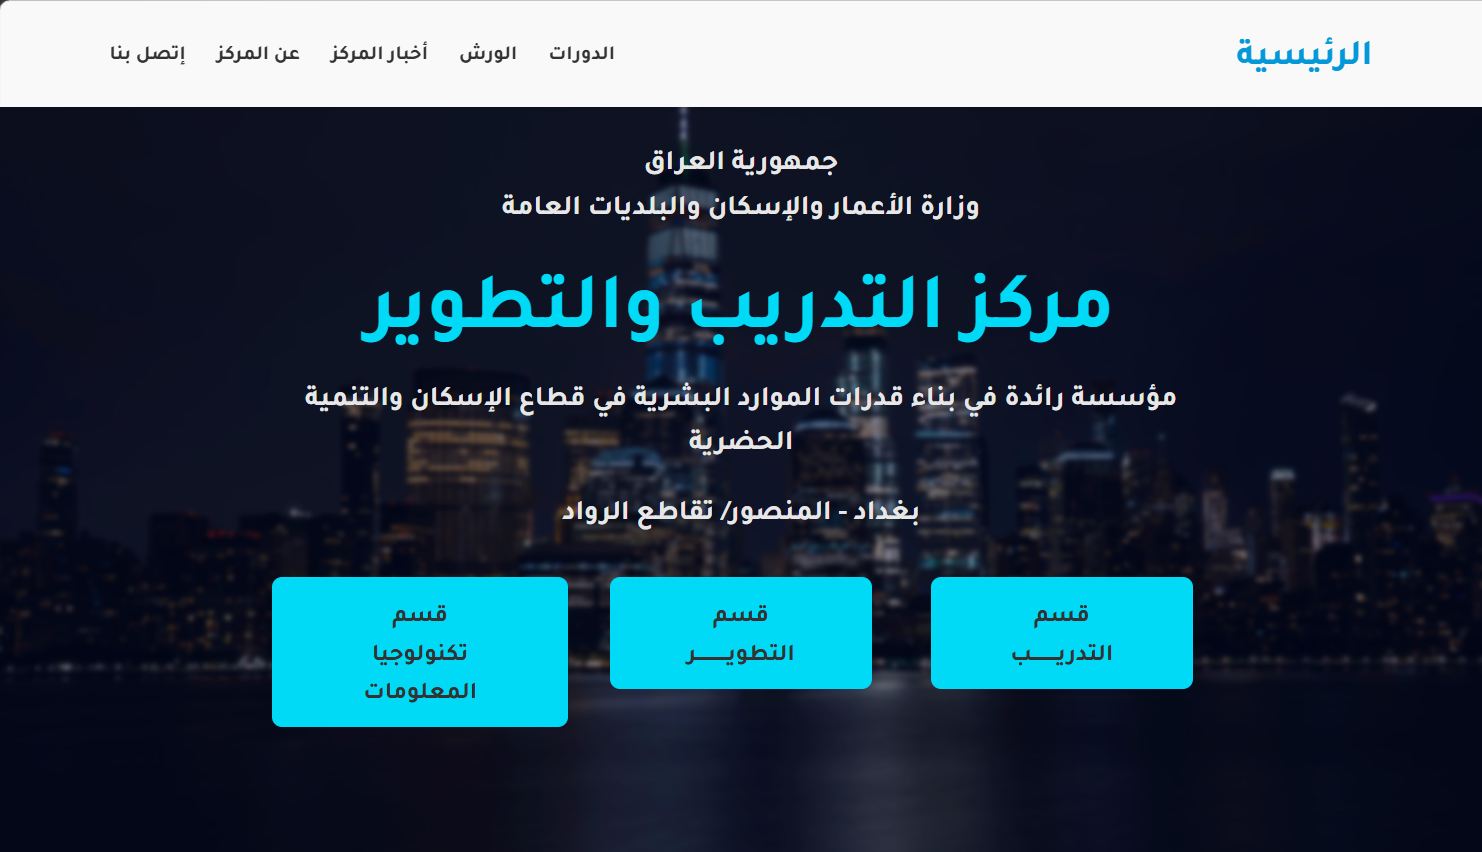
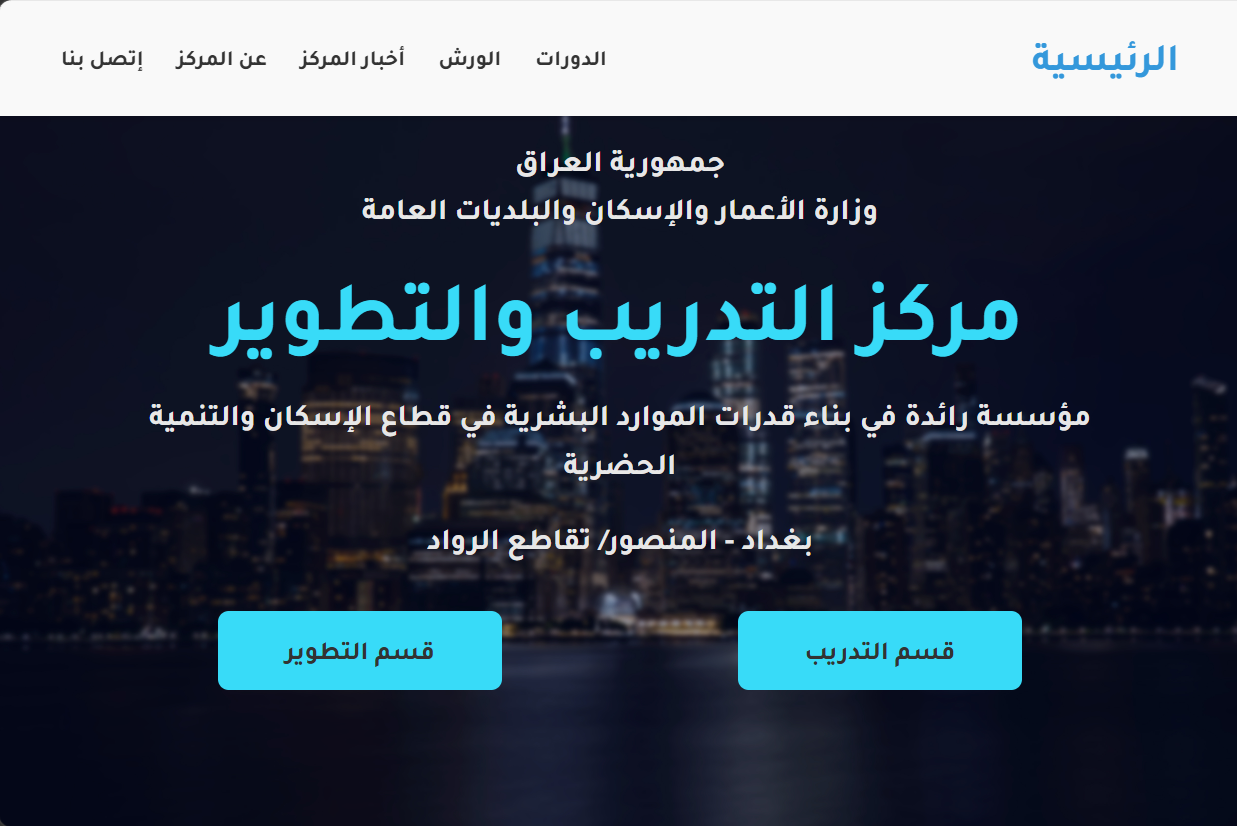
update project

diff --git a/index.html b/index.html
@@ -18,11 +18,11 @@
                     </div>
 
                     <ul class="nav-menu">
-                        <li class="nav-item"><a href="#home">Home</a></li>
-                        <li class="nav-item"><a href="#about">About</a></li>
-                        <li class="nav-item"><a href="#projects">Projects</a></li>
-                        <li class="nav-item"><a href="#skills">Skills</a></li>
-                        <li class="nav-item"><a href="#contact">Contact</a></li>
+                        <li class="nav-item"><a href="#home" class="nav-link">Home</a></li>
+                        <li class="nav-item"><a href="#about" class="nav-link">About</a></li>
+                        <li class="nav-item"><a href="#projects" class="nav-link">Projects</a></li>
+                        <li class="nav-item"><a href="#skills" class="nav-link">Skills</a></li>
+                        <li class="nav-item"><a href="#contact" class="nav-link">Contact</a></li>
                     </ul>
                 </nav>
             </div>
@@ -125,6 +125,94 @@
                     </div>
                 </div>
             </section>
+
+            <section id="skills">
+                <div class="container">
+                    <h2 class="section-title">My Skills</h2>
+
+                    <div class="skills-grid">
+                        <div class="skill-item">
+                            <i class="fab fa-html5 skill-icon"></i>
+                            <h3>HTML5</h3>
+                            <p>Structureing web content semantically</p>
+                        </div>
+
+                        <div class="skill-item">
+                            <i class="fab fa-css3-alt skill-icon"></i>
+                            <h3>CSS3</h3>
+                            <p>Styling wbsites with modern techniques</p>
+                        </div>
+
+                        <div class="skill-item">
+                            <i class="fab fa-js-square skill-icon"></i>
+                            <h3>JavaScript</h3>
+                            <p>Adding interactivity to websites</p>
+                        </div>
+
+                        <div class="skill-item">
+                            <i class="fab fa-python skill-icon"></i>
+                            <h3>Python</h3>
+                            <p>Backend development and scripting</p>
+                        </div>
+                    </div>
+                </div>
+            </section>
+
+            <section id="contact">
+                <div class="container">
+                    <h2 class="section-title">Contact</h2>
+                    <div class="contact-content">
+                        <div class="contact-info">
+                            <h3>Contact Information</h3>
+                            <p><i class="fas fa-map-marker-alt"></i>Baghdad, Iraq</p>
+                            <p><i class="fas fa-phone"></i>+964 772 1228 887</p>
+                            <p><i class="fas fa-envelope"></i>hhtd.987@gmail.com</p>
+                        
+                             <div class="contact-social-icons">
+                                <a target = "_blank" href = 'https://github.com/hhtd987' class = "social-icon"><i class = "fab fa-github"></i></a>
+                                <a target = "_blank" href = "https://www.linkedin.com/in/hasan-turki-43a60a215/" class = "social-icon"><i class="fa-brands fa-linkedin"></i></a>
+                                <a target = "_blank" href = "https://www.youtube.com/@hasanabdulhadi8498" class = "social-icon"><i class="fa-brands fa-youtube"></i></i></a>
+                            </div>
+                        </div>
+
+                        <div class="contact-form">
+                            <h3>Send a Message</h3>
+
+                            <form class="portfolio-contact-form">
+                                <div class="form-group">
+                                    <input type="text" name="name" placeholder="e.g: Sara Ahmed">
+                                </div>
+
+                                <div class="form-group">
+                                    <input type="text" name="email" placeholder="e.g: your_email@example.com">
+                                </div>
+
+                                <div class="form-group">
+                                    <input type="text" name="subject" placeholder="Subject">
+                                </div>
+
+                                <div class="form-group">
+                                    <textarea name="message" rows="4" placeholder="Your Message"></textarea>
+                                </div>
+
+                                <button type="submit" class="btn btn-primary">Send Message</button>
+                            </form>
+                        </div>
+                    </div>
+                </div>
+            </section>
         </main>
+
+        <footer>
+            <div class="container">
+                <p>&copy; 2026 Hasan Turki, All rights reserved</p>
+
+                <div class="footer-social-icons">
+                    <a target="_blank" href="#www.facebook.com" class="social-icon"><i class="fab fa-github"></i></a>
+                    <a target="__blank" href="https://www.linkedin.com/in/hasan-turki-43a60a215/" class="social-icon"><i class="fab fa-linkedin"></i></a>
+                    <a target="__blank" href="https://www.youtube.com/@hasanabdulhadi8498" class="social-icon"><i class="fa-brands fa-youtube"></i></a>
+                </div>
+            </div>
+        </footer>
     </body>
 </html>

diff --git a/style.css b/style.css
@@ -252,3 +252,266 @@ header{
     color: #333;
 }
 
+/* ============== PROJECTS ============== */
+
+#projects{
+    background-color: #f0f0f0;
+}
+
+.project-grid{
+    display: grid;
+    grid-template-columns: repeat(auto-fit, minmax(350px, 1fr));
+    gap: 30px;
+}
+
+.project-item{
+    position: relative;
+    overflow: hidden;
+    border-radius: 8px;
+    box-shadow: 0 4px 15px rgba(0, 0, 0, 0.1)
+}
+
+.project-item img{
+    width: 100%;
+    display: block;
+    transition: transform 0.3s ease;
+}
+
+.project-overlay{
+    position: absolute;
+    top: 0px;
+    left: 0px;
+    width: 100%;
+    height: 100%;
+    color: #fff;
+    display: flex;
+    flex-direction: column;
+    justify-content: center;
+    align-items: center;
+    text-align: center;
+    padding: 20px;
+    background-color: rgba(74, 144, 226, 0.85);
+    opacity: 0;
+    transition: opacity 0.3s ease;
+}
+
+.project-item:hover .project-overlay{
+    opacity: 1;
+}
+
+.project-item:hover img{
+    transform: scale(1.1);
+}
+
+.project-overlay h3{
+    font-size: 1.2rem;
+    margin-bottom: 10px;
+}
+
+.project-overlay p{
+    margin-bottom: 20px;
+}
+
+.project-buttons{
+    font-size: 0.8rem;
+}
+
+/* ============== PROJECTS ============== */
+
+.skills-grid{
+    display: grid;
+    grid-template-columns: repeat(auto-fit, minmax(250px, 1fr));
+    gap: 30px;
+    text-align: center;
+}
+
+.skill-item{
+    background-color: #f9f9f9;
+    padding: 20px;
+    border-radius: 8px;
+    border: 1px solid rgba(0, 0, 0, 0.1);
+    text-align: center;
+    align-items: center;
+    transition: transform 0.3s ease, box-shadow 0.3s ease;
+}
+
+.skill-item:hover{
+    box-shadow: 0 5px 5px rgba(0, 0, 0, 0.1);
+    transform: scale(1.1)
+}
+
+.skill-item i{
+    color: rgba(74, 144, 226, 0.85);
+    font-size: 2rem;
+}
+
+.skill-item h3{
+    padding-bottom: 1rem;
+    border-bottom: 1px solid rgba(0, 0, 0, 0.3);
+}
+
+.skill-item p{
+    margin-top: 1rem;
+}
+
+/* ============== CONTACT ============== */
+
+#contact{
+    background-color: #f9f9f9;
+}
+
+.contact-content{
+    display: flex;
+    flex-wrap: wrap;
+    gap: 40px;
+}
+
+.contact-info, .contact-form{
+    flex: 1;
+    min-width: 300px;
+}
+
+.contact-info h3, .contact-form h3{
+    font-size: 1.5rem;
+    color: #4a90e2;
+    margin-bottom: 1.5rem;
+}
+
+.contact-info p{
+    margin-bottom: 0.8rem;
+    color: #555;
+    display: flex;
+    align-items: center;
+}
+
+.fa-map-marker-alt, .fa-phone, .fa-envelope{
+    margin-right: 1.5rem;
+    color: #4a90e2;
+    width: 20px;
+    text-align: center;
+}
+
+.contact-social-icons{
+    margin-top: 20px;
+}
+
+.contact-form{
+    width: 100%;
+}
+
+.form-group{
+    margin-bottom: 1rem;
+    font-size: 1.1rem;
+}
+
+.contact-form input[type="text"],
+.contact-form input[type="email"],
+.contact-form textarea{
+    width: 100%;
+    border-radius: 5px;
+    border: 1px solid rgba(0, 0, 0, 0.1);
+    padding: 10px;
+}
+
+textarea{
+    resize: vertical;
+}
+
+.contact-form button[type="submit"]{
+    border: none;
+    cursor: pointer;
+}
+
+/* ============== FOOTER ============== */
+
+footer{
+    background-color: #333;
+    color: #ddd;
+    padding: 12px 0;
+}
+
+footer .container{
+    display: flex;
+    flex-direction: column;
+    align-items: center;
+}
+
+footer p{
+    font-size: 0.9rem;
+    padding-bottom: 15px;
+    border-bottom: 1px solid rgba(255,255,255,0.1);
+}
+
+footer .footer-social-icons{
+    margin-top: 1rem;
+}
+
+footer .footer-social-icons i{
+    color: #ddd;
+}
+
+footer .footer-social-icons i:hover{
+    color: #ddd;
+    transform: scale(1.3);
+}
+
+/* ============= RESPONSIVE DESIGN ============= */
+
+@media (max-width: 992px){
+    .hero .container{
+        flex-direction: column-reverse;
+        text-align: center;
+        gap: 2rem;
+    }
+
+    .hero-image{
+        max-width: 300px;
+    }
+
+    .hero-content{
+        max-width: 100%;
+        margin-top: 2rem;
+    }
+}
+
+@media (max-width: 768px){
+    /* ------ nav bar ------ */
+    .navbar{
+        flex-direction: column;
+        justify-content: center;
+        font-size: 0.5rem;
+    }
+
+    .logo{
+        margin-bottom: 0.5rem;
+        text-align: center;
+        flex: 0 0 100%;
+    }
+
+    .nav-menu{
+        flex-wrap: wrap;
+        justify-content: center;
+    }
+
+    .nav-menu a{
+        font-size: 0.9rem;
+        font-weight: 400;
+    }
+
+    .nav-item{
+        margin: 0.5rem 0.8rem;
+    }
+
+    .nav-link{
+        font-size: 1.2rem;
+    }
+
+    /* ------ about section ------ */
+    .about-content{
+        text-align: center;
+    }
+
+    .about-image{
+        margin-bottom: 2rem;
+    }
+}
